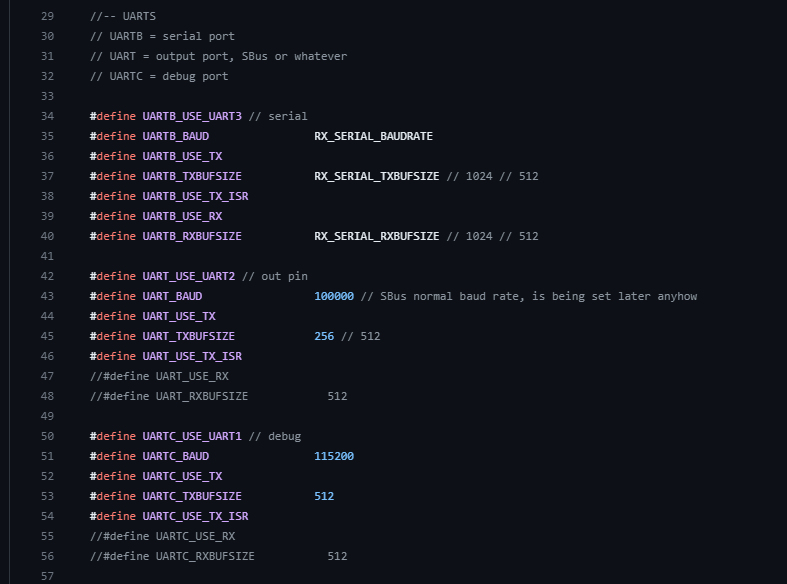
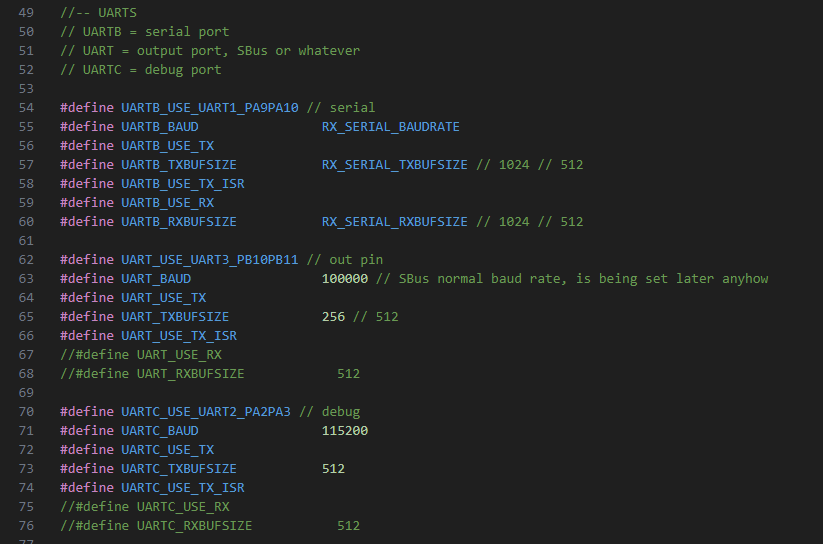
custom uarts update (#120)
* custom uarts update

* updates

* remove UART_PINS

diff --git a/docs/CUSTOM_BOARDS_TARGETS.md b/docs/CUSTOM_BOARDS_TARGETS.md
@@ -78,7 +78,7 @@ Note:  All pin names needs to be prefixed with 'IO_'
 
 ## Example - Reassigning UARTs
 
-Let's say that you want to use UART1 (PA9, PA10) for the serial connection and UART3 (PB10, PB11) for debug on the E28 Dual STM32F1 board.  In this case, you'll need to update line 34 to use UART1 and update line 50 to use UART3:
+Let's say that on the E28 Dual STM32F1 receiver board you want to use UART1 (PA9, PA10) for the serial connection, UART3 (PB10, PB11) for out and UART2 (PA2, PA3) for debug.  You'll need to update lines 54, 62 and 70, screenshot below:
 
 <img src="images/E28_Dual_UART.png">
 
@@ -98,8 +98,15 @@ Rx      | UART   | Out          |
 Rx      | UARTB  | Serial       |
 Rx      | UARTC  | Debug        |
 
-If you want to use alternative pins for the UART please refer to the table below:
+UART pin assignment is handled by the Tx and Rx pin names in the define.  These need to match the pins that you want to use.  There are certain restrictions on which pins can be used for each UART, refer to the datasheet for a comprehensive list. The table below contains common options which should work for most MCUs.
 
-<img src="images/UART_PINS.png">
+UART    |            |             |           |             |
+------- | ---------- | ----------- | --------- | ----------- |
+UART1   | PA9, PA10  | PB6, PB7    | PC4, PC5  |             |
+UART2   | PA2, PA3   | PD5, PD6    | PB3, PB4  | PA14, PA16  |
+UART3   | PB10, PB11 | PC10, PC11  |           |             |
+UART4   | PC10, PC11 |             |           |             |
+UART5   | PC12, PD2  |             |           |             |
+LUART1  | PA2, PA3   | PC1, PC10   |           |             |
 
-For example, if you want to use pins PB6 and PB7 for UART1 on UARTB the correct syntax would be `UARTB_USE_UART1_REMAPPED`
+For example, if you want to use pins PB3 and PB4 for UART2 on UARTB the correct syntax would be `UARTB_USE_UART2_PB3PB4`
